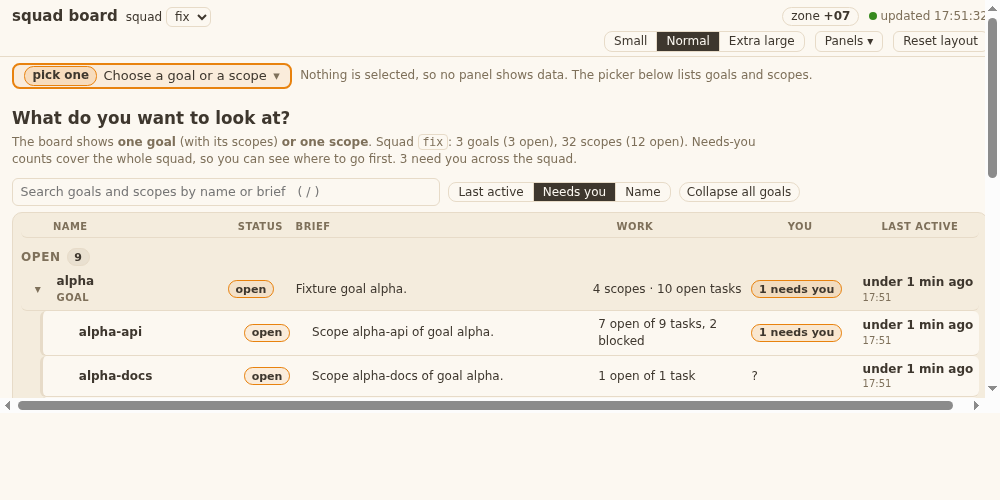
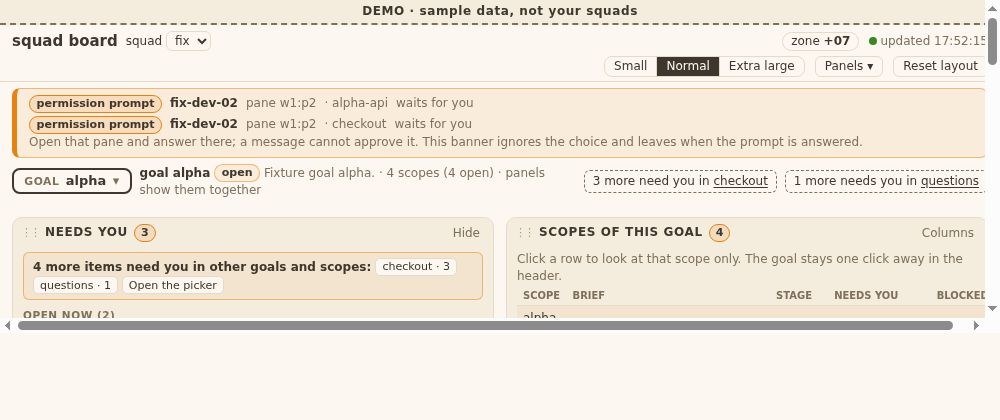
37b: evidence rows T37.TA4, AC6, AC12 with shots

Changed region(s): [[0.0, 0.0, 1.0, 0.4643], [0.0, 0.4952, 1.0, 0.8357], [0.465, 0.5262, 0.496, 0.5571]]

diff --git a/.scratch/dashboard/issues/37-demo-board/evidence.md b/.scratch/dashboard/issues/37-demo-board/evidence.md
@@ -1,4 +1,4 @@
-# Evidence 37: squad-board --demo (wrapper, without the label step)
+# Evidence 37: squad-board --demo (wrapper and label step 37b)
 
 ## Behaviour
 `bin/squad-board --demo [--port N] [--no-open]` copies the fixture to `/tmp/squad-board-demo-*` (times = now), extends the copy
@@ -8,8 +8,14 @@ on goal `alpha`. The copy is removed in `finally` (Ctrl-C and SIGTERM). The fixt
 A click in the demo opens a copy file, deleted at exit (the click route is ticket 34; see the open gap).
 Run by hand on port 8791-8793: goal `alpha` and scope `checkout` answer every panel route with rows, `unknown == []`.
 
+## Label (37b)
+`squadboard.main(..., demo=True)` (the only flag, passed by `squadboard_demo.run`) sets `server.demo`; the `/api/squads` picker route
+(`bin/squadboard_list.py:picker`) then adds `"demo": true`; a normal run has no key. `templates/board/board.js` shows one `role=note` line
+`DEMO · sample data, not your squads` (textContent, no control) as the first element of `#app`, and `paintTitle` prefixes `[demo] `.
+`board.css` `.demo`: light strip (`--panel`, `--ink`, bold, `.05em`, `2px dashed var(--muted)`), sticky, in flow, so banner, picker and top bar are not pushed over.
+Shots of the running demo (with the permission banner): ![strip at 1000 px](img/demo-label-1000.png) ![strip at 1440 px](img/demo-label-1440.png)
+
 ## Open gaps (HANDIN)
-- T37.AC6, AC12 (label, page checks) and T37.TA4: wait for the label step (37b, after 34 and 36). Not built.
 - T37.TA5 click line: "a click in the demo opens a copy file deleted at exit" is stated, not run until 34 is merged.
 - SIGKILL leaves the copy in the temp dir (out of scope).
 - `test_squadboard_list::test_T04_AC1_rows_order_and_done_list` fails on the clean base too (last_active 09:30:49 vs 09:30:00); not caused by 37.
@@ -22,18 +28,18 @@ Run by hand on port 8791-8793: goal `alpha` and scope `checkout` answer every pa
 | T37.AC2, AC3 | test_squadboard_demo.py::RunningDemo::test_T37_TA2_AC2_AC5_every_panel_has_content (goal and scope views). Empty-board texts: panel API rows > 0 |
 | T37.AC4 | same test, nine stages in `checkout` |
 | T37.AC5 | same test: question + blocked agent, working/idle/blocked, 11 h gap, DST |
-| T37.AC6 | OPEN (label step) |
+| T37.AC6 | bin/squadboard.py:main(demo), templates/board/board.js (strip, paintTitle), board.css `.demo`; Label::test_T37_TA4_AC6_flag_only_in_demo_and_strip_is_light_and_stays; shots above |
 | T37.AC7 | ::test_T37_TA1_AC7_AC8_nothing_real (REALSQUAD name in no API answer) |
 | T37.AC8 | ::test_T37_TA6_AC8_AC10_read_only_and_cleaned |
 | T37.AC9 | bin/squadboard_demo.py:build (new copy per start); test_T37_TA1_copy_removed_when_main_raises |
 | T37.AC10 | Flags::test_T37_TA5_AC10_sigterm_removes_copy |
 | T37.AC11 | ::test_T37_TA3_AC11_ages_are_recent ("40 min") |
-| T37.AC12 | OPEN (QA blackbox against the running demo; needs 35/36) |
+| T37.AC12 | the two shots in ## Label (1000 and 1440 px); the same test at 1000 and 1440 px (strip first, sticky, top bar starts under it) |
 | T37.TA1 | ::test_T37_TA1_AC7_AC8_nothing_real, Flags::test_T37_TA1_copy_removed_when_main_raises |
 | T37.TA2 | ::test_T37_TA2_AC2_AC5_every_panel_has_content (routes read from templates/board/*.js by pattern, fails if < 6) |
 | T37.TA3 | ::test_T37_TA3_AC11_ages_are_recent |
-| T37.TA4 | OPEN until 37b |
+| T37.TA4 | tests/test_squadboard_demo.py::RunningDemo::test_T37_TA4_AC6_demo_flag_is_true_in_the_demo, ::Label::test_T37_TA4_AC6_flag_only_in_demo_and_strip_is_light_and_stays (no key in a normal run; text; stays after a poll and Reset layout; computed bg/color/border/letter-spacing equal board.css tokens; title prefix) |
 | T37.TA5 | Flags::test_T37_TA5_AC1_exit_codes, ::test_T37_TA5_AC10_sigterm_removes_copy, ::test_T37_TA5_help_documents_demo |
 | T37.TA6 | ::test_T37_TA6_AC8_AC10_read_only_and_cleaned: one PUT /api/ui, `board-ui.json` exists in the copy, then git status, fixture hash, HOME hash equal |
 | T37.TA7 | grep run: test_board_fixtures, test_squadboard_{active,agents,files,inbox,list,server,tasks}, test_squad_{respawn,start}, test_squadruntime, test_squadboard_page (82 tests with panels), test_squadboard_panels (only known red: Panels12 `1 d ago`, fails on main); test_windows_safe, test_no_bare_bash, test_old_language_inventory pass |
-| T37.TAx | Each technical AC above is covered by the test named in its row (a completed action, window and fixture asserted, no always-true assert). TA4: no test until 37b. TA5 click line: no test until 34 is merged |
+| T37.TAx | Each technical AC above is covered by the test named in its row (a completed action, window and fixture asserted, no always-true assert). TA4: tests named in its row. TA5 click line: no test until 34 is merged |
